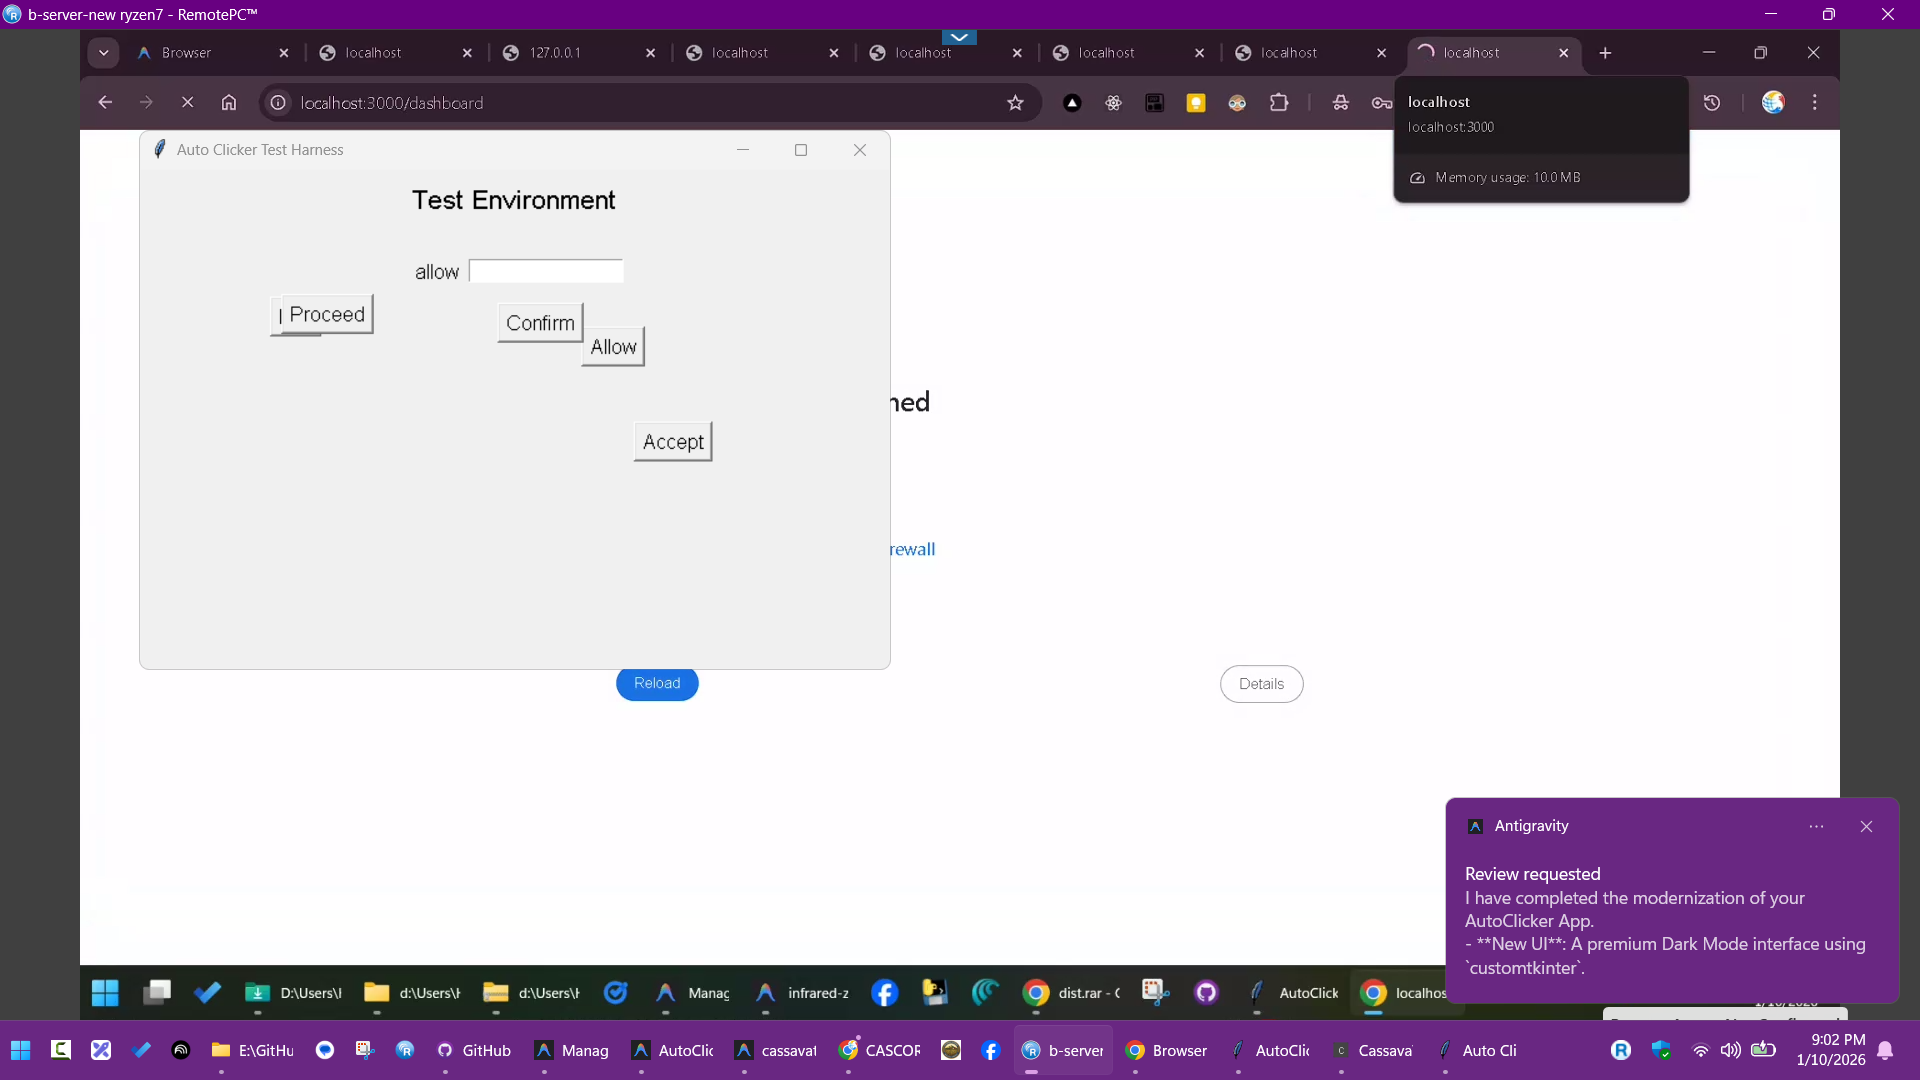
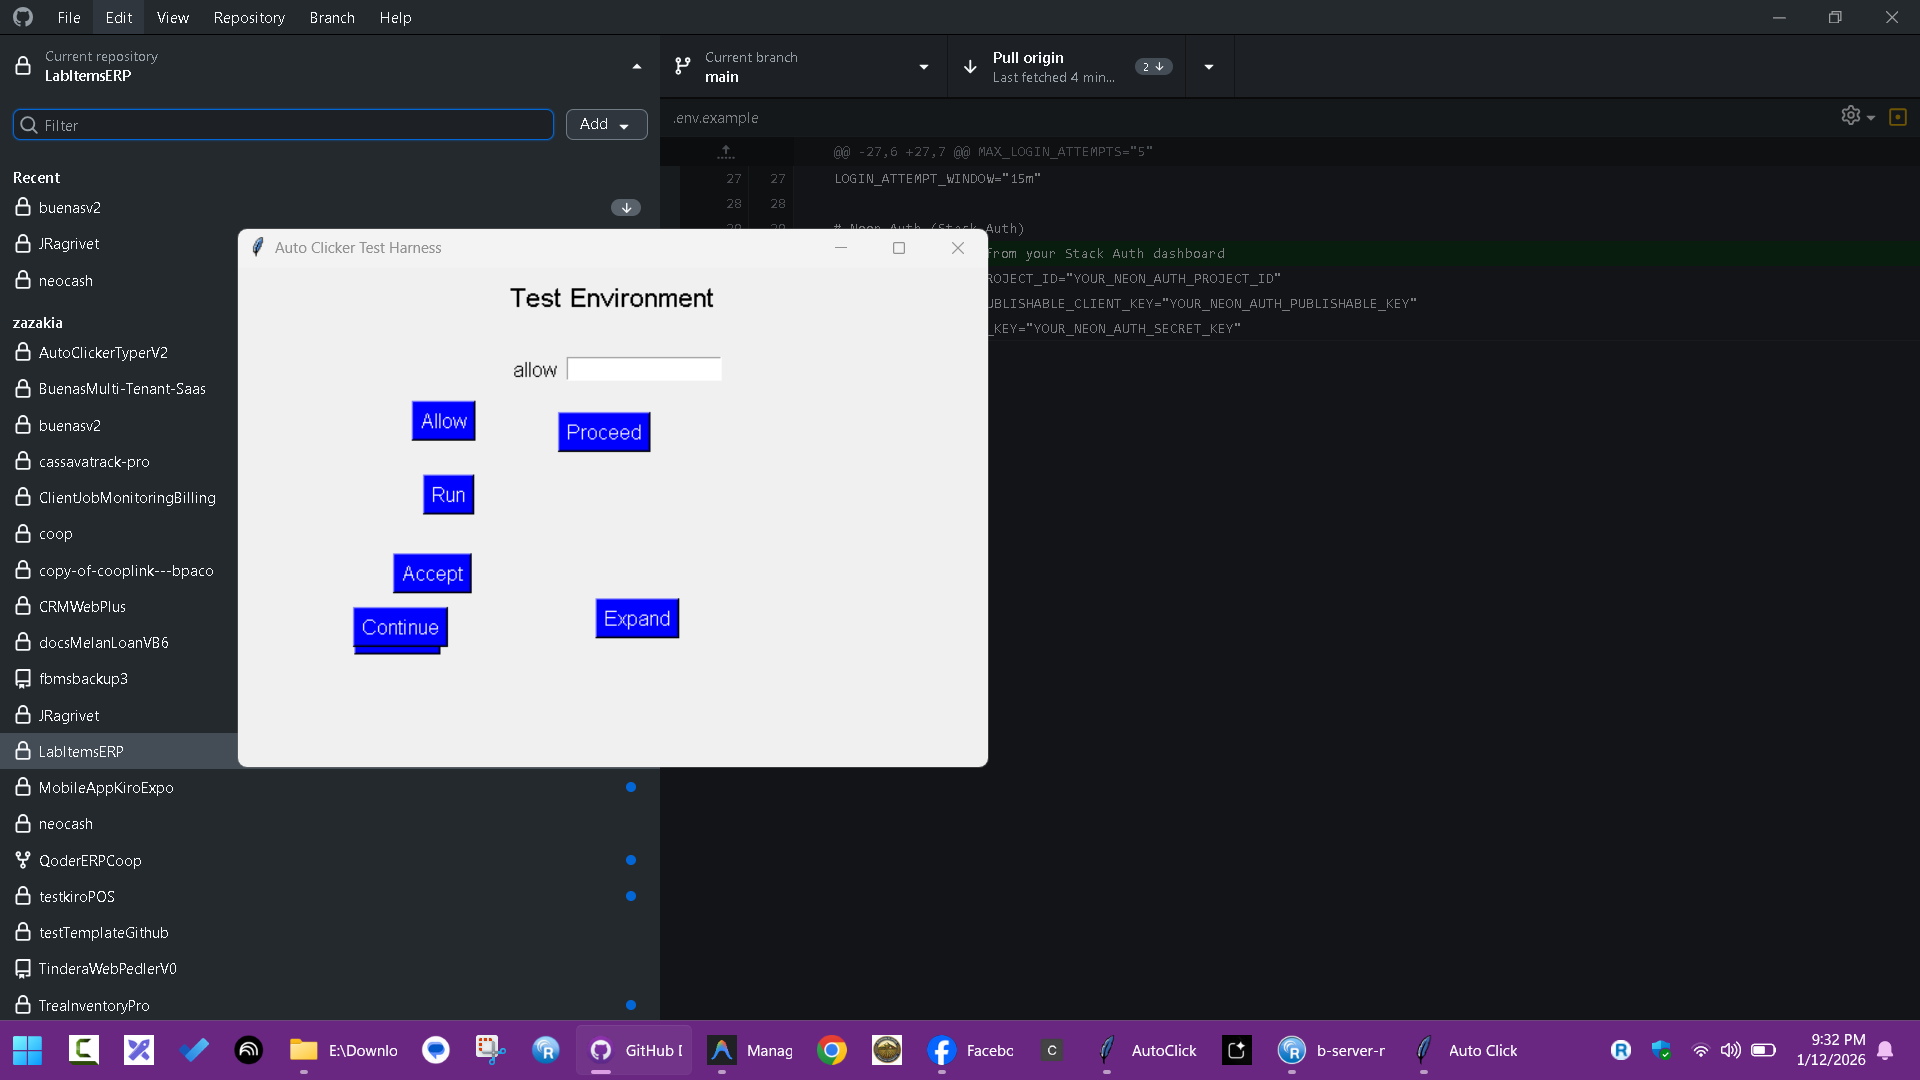
Add new keywords and improve UI responsiveness
Expanded CLICK_KEYWORDS to include 'Continue' and 'Expand' in config and test harness. Reduced scan interval and action delays for faster response. Enabled color filter by default. Fixed GUI layout by correcting 'px' to 'padx' and 'py' to 'pady'. Updated test integration to use new App class and correct button references.

diff --git a/gui.py b/gui.py
@@ -60,7 +60,7 @@ class App(ctk.CTk):
 
         # Tabs
         self.tabview = ctk.CTkTabview(self)
-        self.tabview.grid(row=0, column=1, px=20, pady=0, sticky="nsew")
+        self.tabview.grid(row=0, column=1, padx=20, pady=0, sticky="nsew")
         self.tabview.add("Dashboard")
         self.tabview.add("Settings")
         
@@ -80,23 +80,23 @@ class App(ctk.CTk):
         wf_frame.grid(row=0, column=0, padx=10, pady=10, sticky="ew")
         wf_frame.grid_columnconfigure(1, weight=1)
         
-        ctk.CTkLabel(wf_frame, text="Target Window:", font=ctk.CTkFont(weight="bold")).grid(row=0, column=0, px=10, py=5, sticky="w")
+        ctk.CTkLabel(wf_frame, text="Target Window:", font=ctk.CTkFont(weight="bold")).grid(row=0, column=0, padx=10, pady=5, sticky="w")
         self.target_entry = ctk.CTkEntry(wf_frame)
-        self.target_entry.grid(row=0, column=1, px=10, py=5, sticky="ew")
+        self.target_entry.grid(row=0, column=1, padx=10, pady=5, sticky="ew")
         self.target_entry.insert(0, config_manager.get("TARGET_WINDOW_TITLE", "Manager"))
         self.target_entry.bind("<FocusOut>", self.save_target_window)
         
-        ctk.CTkLabel(wf_frame, text="Prompt:", font=ctk.CTkFont(weight="bold")).grid(row=1, column=0, px=10, py=5, sticky="nw")
+        ctk.CTkLabel(wf_frame, text="Prompt:", font=ctk.CTkFont(weight="bold")).grid(row=1, column=0, padx=10, pady=5, sticky="nw")
         self.prompt_text = ctk.CTkTextbox(wf_frame, height=80)
-        self.prompt_text.grid(row=1, column=1, px=10, py=5, sticky="ew")
+        self.prompt_text.grid(row=1, column=1, padx=10, pady=5, sticky="ew")
         
-        ctk.CTkLabel(wf_frame, text="Suffix:", font=ctk.CTkFont(weight="bold")).grid(row=2, column=0, px=10, py=5, sticky="w")
+        ctk.CTkLabel(wf_frame, text="Suffix:", font=ctk.CTkFont(weight="bold")).grid(row=2, column=0, padx=10, pady=5, sticky="w")
         self.suffix_entry = ctk.CTkEntry(wf_frame)
-        self.suffix_entry.grid(row=2, column=1, px=10, py=5, sticky="ew")
+        self.suffix_entry.grid(row=2, column=1, padx=10, pady=5, sticky="ew")
         self.suffix_entry.insert(0, "Proceed")
         
         self.run_wf_btn = ctk.CTkButton(wf_frame, text="Run Workflow (Focus -> Type -> Send)", command=self.start_workflow_thread)
-        self.run_wf_btn.grid(row=3, column=1, px=10, py=10, sticky="ew")
+        self.run_wf_btn.grid(row=3, column=1, padx=10, pady=10, sticky="ew")
         
         # --- Quick Prompts ---
         qp_frame = ctk.CTkFrame(dash)
@@ -126,9 +126,9 @@ class App(ctk.CTk):
         log_frame.grid(row=2, column=0, padx=10, pady=10, sticky="nsew")
         dash.grid_rowconfigure(2, weight=1)
         
-        ctk.CTkLabel(log_frame, text="Execution Logs").pack(anchor="w", px=5)
+        ctk.CTkLabel(log_frame, text="Execution Logs").pack(anchor="w", padx=5)
         self.log_area = ctk.CTkTextbox(log_frame, state="disabled")
-        self.log_area.pack(fill="both", expand=True, px=5, py=5)
+        self.log_area.pack(fill="both", expand=True, padx=5, pady=5)
         
         # Logging Handler
         handler = TextHandler(self.log_area)
@@ -141,26 +141,26 @@ class App(ctk.CTk):
         
         # OCR Confidence
         c_frame = ctk.CTkFrame(sett)
-        c_frame.pack(fill="x", px=10, py=5)
-        ctk.CTkLabel(c_frame, text="OCR Confidence Threshold").pack(side="left", px=10)
+        c_frame.pack(fill="x", padx=10, pady=5)
+        ctk.CTkLabel(c_frame, text="OCR Confidence Threshold").pack(side="left", padx=10)
         self.conf_slider = ctk.CTkSlider(c_frame, from_=0, to=100, command=self.update_conf)
         self.conf_slider.set(config_manager.get("OCR_CONFIDENCE_THRESHOLD"))
-        self.conf_slider.pack(side="right", px=10, fill="x", expand=True)
+        self.conf_slider.pack(side="right", padx=10, fill="x", expand=True)
         
         # Scan Interval
         s_frame = ctk.CTkFrame(sett)
-        s_frame.pack(fill="x", px=10, py=5)
-        ctk.CTkLabel(s_frame, text="Scan Interval (s)").pack(side="left", px=10)
+        s_frame.pack(fill="x", padx=10, pady=5)
+        ctk.CTkLabel(s_frame, text="Scan Interval (s)").pack(side="left", padx=10)
         self.scan_slider = ctk.CTkSlider(s_frame, from_=0.1, to=5.0, command=self.update_scan)
         self.scan_slider.set(config_manager.get("SCAN_INTERVAL"))
-        self.scan_slider.pack(side="right", px=10, fill="x", expand=True)
+        self.scan_slider.pack(side="right", padx=10, fill="x", expand=True)
         
         # Keywords
         k_frame = ctk.CTkFrame(sett)
-        k_frame.pack(fill="both", px=10, py=5, expand=True)
-        ctk.CTkLabel(k_frame, text="Click Keywords (comma separated)").pack(anchor="w", px=10)
+        k_frame.pack(fill="both", padx=10, pady=5, expand=True)
+        ctk.CTkLabel(k_frame, text="Click Keywords (comma separated)").pack(anchor="w", padx=10)
         self.click_kw_entry = ctk.CTkEntry(k_frame)
-        self.click_kw_entry.pack(fill="x", px=10, py=5)
+        self.click_kw_entry.pack(fill="x", padx=10, pady=5)
         self.click_kw_entry.insert(0, ", ".join(config_manager.get("CLICK_KEYWORDS")))
         
         ctk.CTkButton(k_frame, text="Save Keywords", command=self.save_keywords).pack(pady=10)

diff --git a/test_gui_integration.py b/test_gui_integration.py
@@ -16,9 +16,7 @@ class TestGuiIntegration(unittest.TestCase):
         import importlib
         importlib.reload(gui)
         
-        self.root = tk.Tk()
-        self.root.withdraw()
-        self.app = gui.AutoClickerGUI(self.root)
+        self.app = gui.App()
         
         # Ensure stop event is set initially so we don't accidentally run
         main.stop_event.set()
@@ -28,7 +26,7 @@ class TestGuiIntegration(unittest.TestCase):
         if self.app.autoclicker_thread and self.app.autoclicker_thread.is_alive():
             main.stop_event.set()
             self.app.autoclicker_thread.join(timeout=2)
-        self.root.destroy()
+        self.app.destroy()
 
     @patch('main.main')
     def test_toggle_lifecycle(self, mock_main):
@@ -59,8 +57,8 @@ class TestGuiIntegration(unittest.TestCase):
         
         # Verify Button Update (Start -> Stop)
         # Note: We need to update idle tasks to ensure config was applied, though usually instant in unit test
-        self.root.update_idletasks() 
-        self.assertIn("Stop", self.app.toggle_btn.cget('text'))
+        self.app.update_idletasks() 
+        self.assertIn("Stop", self.app.start_btn.cget('text'))
 
         # --- PHASE 2: STOP ---
         
@@ -78,13 +76,13 @@ class TestGuiIntegration(unittest.TestCase):
         # The GUI update happens in root.after, let's process it
         # Poll for the button text update
         for _ in range(10):
-            self.root.update()
-            if "Start" in self.app.toggle_btn.cget('text'):
+            self.app.update()
+            if "Start" in self.app.start_btn.cget('text'):
                 break
             time.sleep(0.1)
         
         # Verify Button Reset (Stop -> Start)
-        self.assertIn("Start", self.app.toggle_btn.cget('text'))
+        self.assertIn("Start", self.app.start_btn.cget('text'))
 
 if __name__ == "__main__":
     import sys

diff --git a/core/actions.py b/core/actions.py
@@ -10,7 +10,7 @@ from utils.logger import logger
 def smooth_move(x, y):
     """Moves mouse smoothly to x, y."""
     # PyAutoGUI has built-in tweening, but we can just use a simple duration
-    pyautogui.moveTo(x, y, duration=random.uniform(0.1, 0.3))
+    pyautogui.moveTo(x, y, duration=random.uniform(0.05, 0.15))
 
 def apply_random_offset(x, y, w, h):
     """Calculates a random point within the bounding box."""
@@ -27,7 +27,7 @@ def perform_click(box):
     logger.debug(f"Moving to click at ({target_x}, {target_y})")
     smooth_move(target_x, target_y)
     
-    time.sleep(random.uniform(0.05, 0.15)) # Pre-click delay
+    time.sleep(random.uniform(0.02, 0.08)) # Pre-click delay
     pyautogui.click()
     time.sleep(config_manager.get("ACTION_DELAY", 0.1))
     

diff --git a/test_harness.py b/test_harness.py
@@ -17,7 +17,7 @@ class TestApp:
         self.frame.pack(expand=True, fill='both')
 
         # Keywords from config
-        self.click_keywords = ["Accept", "Run", "Allow", "Proceed", "Confirm"]
+        self.click_keywords = ["Accept", "Run", "Allow", "Proceed", "Confirm", "Continue", "Expand"]
         self.type_keywords = ["Type Here"] # Modified for visual clarity vs typing content
 
         self.widgets = []
@@ -47,6 +47,7 @@ class TestApp:
 
     def create_button(self, text):
         btn = tk.Button(self.frame, text=text, font=("Arial", 12),
+                        bg="#0000FF", fg="white",
                         command=lambda t=text: self.on_click(t))
         # Place randomly
         x = random.randint(50, 400)
